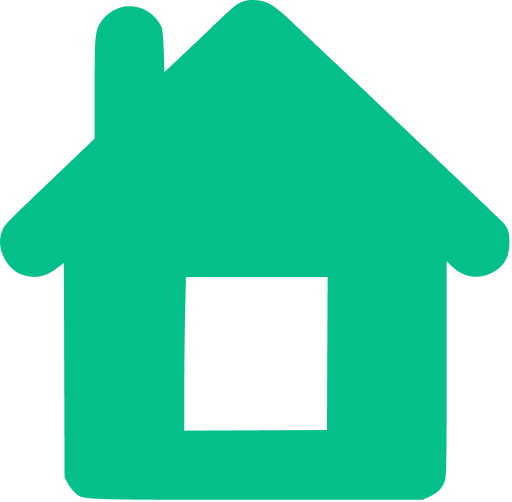
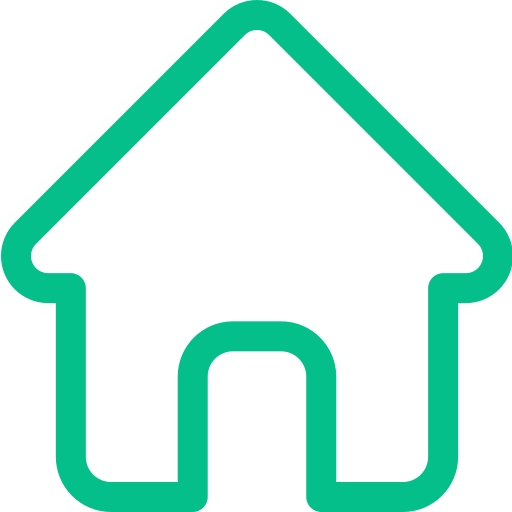
로고변경 및 푸터 변경

diff --git a/src/page/MyPageEdit.jsx b/src/page/MyPageEdit.jsx
@@ -12,25 +12,34 @@ import SelectSports from "../component/interest/SelectSportsClon";
 import SelectArea from "../component/interest/SelectAreaClon";
 import {
   OptionBoardCom,
-  SelectOptionBoardFooterCom,
   SelectOptionBoardCom,
-  SelectOptionBoardHeaderComp,
 } from "../component/interest/SelectAreaClon";
 import SelectMBTI from "../component/MBTI/MBTI";
 
 const Container = styled.div`
+  display: flex;
+  flex-direction: column;
+  align-items: center;
   width: 768px;
   margin: 0px auto;
+  @media only screen and (max-width: 768px) {
+    width: 100%;
+  }
 `;
 const FinalCon = styled.div`
+  display: flex;
+  flex-direction: column;
+  justify-content: center;
+  width: 90%;
   margin-top: 30px;
   border-top-right-radius: 40px;
   border-bottom-right-radius: 40px;
   border-bottom-left-radius: 40px;
-  border: 5px solid #04bf8a;
+  border: 2px solid #cccccc;
 `;
 const FooterCon = styled.div`
-  font-size: 1.2em;
+  margin-bottom: 20px;
+  font-size: 1em;
   color: #353535;
 `;
 const HeaderBox = styled.div`
@@ -41,13 +50,13 @@ const HeaderBox = styled.div`
   margin: 0 auto;
 `;
 const EditBox = styled.div`
+  width: 90%;
+  align-items: center;
   display: flex;
   flex-direction: column;
   margin-bottom: 15%;
 `;
 const FooterBox = styled.div`
-  height: 90px;
-  background-color: white;
   display: flex;
   justify-content: center;
   position: fixed;
@@ -70,10 +79,9 @@ const UserInformation = styled.h2`
   padding: 10px 0;
   display: flex;
   justify-content: center;
-  font-size: 2em;
+  font-size: 1em;
   color: #353535;
 `;
-const SelectedFinal = styled.div``;
 
 const UserImage = styled.img`
   display: flex;
@@ -98,12 +106,10 @@ const EditNick = styled.div`
 `;
 const Input = styled.input`
   background-color: none;
-  width: 100%;
+  width: 90%;
   text-align: center;
-  padding: 20px;
   font-size: 1em;
   border: 1px solid #f7f7f7;
-  transition: height 0.5s ease; // 트랜지션 추가
 `;
 const SubmitButton = styled.button`
   padding: 5px;
@@ -119,6 +125,7 @@ const SubmitButton = styled.button`
     background-color: #04bf8a;
   }
 `;
+
 const EX = styled.div`
   display: flex;
   flex-direction: column;
@@ -144,13 +151,17 @@ const StyledLink = styled(Link)`
   margin: 0 30px;
 `;
 const Text = styled.div`
-  font-size: 2em;
+  font-size: 1.5em;
   margin: 10px;
   color: #04bf8a;
   margin-bottom: 20px;
 `;
+const TextClon = styled.div`
+  font-size: 1.5em;
+  color: #04bf8a;
+  margin-bottom: 20px;
+`;
 const AreaSports = styled.div`
-  font-size: 2em;
   display: flex;
   gap: 50px;
 `;
@@ -283,7 +294,7 @@ const MyPageEdit = () => {
     "자전거",
     "등산",
     "축구",
-    "필라테스",
+    "농구",
     "야구",
     "탁구",
     "테니스",
@@ -393,10 +404,10 @@ const MyPageEdit = () => {
             )}
           </SelectOptionBoardCom>
         </FinalCon>
-        <EX>
-          <FinalCon>
+        <FinalCon>
+          <EX>
             <Text>닉네임</Text>
-            <Text>
+            <TextClon>
               <EditNick>
                 {!editMode ? (
                   <FooterCon>{user.nickname}</FooterCon>
@@ -410,13 +421,13 @@ const MyPageEdit = () => {
                   />
                 )}
               </EditNick>
-            </Text>
-          </FinalCon>
-        </EX>
-        <EX>
-          <FinalCon>
+            </TextClon>
+          </EX>
+        </FinalCon>
+        <FinalCon>
+          <EX>
             <Text>소개</Text>
-            <Text>
+            <TextClon>
               <EditNick>
                 {!editMode ? (
                   <FooterCon>{user.introduce}</FooterCon>
@@ -430,15 +441,15 @@ const MyPageEdit = () => {
                   />
                 )}
               </EditNick>
-            </Text>
-          </FinalCon>
-        </EX>
-        <EX>
-          <FinalCon>
+            </TextClon>
+          </EX>
+        </FinalCon>
+        <FinalCon>
+          <EX>
             <Text>관심 지역</Text>
             <EditNick>
               {!editMode ? (
-                <>
+                <Text>
                   <AreaSports>
                     {area &&
                       area.map((areaItem, index) => (
@@ -447,7 +458,7 @@ const MyPageEdit = () => {
                         </FooterCon>
                       ))}
                   </AreaSports>
-                </>
+                </Text>
               ) : (
                 <SelectArea
                   options={activityAreaList}
@@ -458,14 +469,14 @@ const MyPageEdit = () => {
                 />
               )}
             </EditNick>
-          </FinalCon>
-        </EX>
-        <EX>
-          <FinalCon>
+          </EX>
+        </FinalCon>
+        <FinalCon>
+          <EX>
             <Text>관심 운동</Text>
             <EditNick>
               {!editMode ? (
-                <>
+                <Text>
                   <AreaSports>
                     {interest &&
                       interest.map((interestItem, index) => (
@@ -474,7 +485,7 @@ const MyPageEdit = () => {
                         </FooterCon>
                       ))}
                   </AreaSports>
-                </>
+                </Text>
               ) : (
                 <SelectSports
                   options={activityList}
@@ -485,8 +496,8 @@ const MyPageEdit = () => {
                 />
               )}
             </EditNick>
-          </FinalCon>
-        </EX>
+          </EX>
+        </FinalCon>
         <FinalCon>
           <Text>MBTI</Text>
           <EditNick>

diff --git a/src/page/schedule/Schedule.jsx b/src/page/schedule/Schedule.jsx
@@ -2,12 +2,10 @@ import React, { useState } from "react";
 import styled from "styled-components";
 import moment from "moment";
 import CalendarComp from "../../component/CalendarComp";
-import { useNavigate } from "react-router-dom";
 import JoinPost from "./JoinPost";
 
 const BoardContainer = styled.div`
   display: flex;
-  /* align-items: center; */
   justify-content: center;
   width: 100%;
   flex-direction: column;
@@ -34,36 +32,16 @@ const Date = styled.p`
 `;
 const BoardJoin = styled.div``;
 const DateCon = styled.div`
-  /* width: 768px; */
   display: flex;
   align-items: center;
   justify-content: center;
   gap: 250px;
-`;
-const MyPost = styled.button`
-  top: 155px;
-  align-items: center;
-  justify-content: center;
-  font-size: 1.3em;
-  width: 7em;
-  height: 2em;
-  border-radius: 30px;
-  background-color: var(--GREEN);
-  color: white;
-  border: none;
-  &:hover {
-    color: #353535;
-  }
 `;
 
 const Schedule = () => {
   const [selectedDate, setSelectedDate] = useState(moment());
   const onDateSelect = (date) => {
     setSelectedDate(date);
-  };
-  const navigate = useNavigate();
-  const handleMyPostClick = () => {
-    navigate("/MyPost");
   };
 
   return (
@@ -78,7 +56,6 @@ const Schedule = () => {
             <>
               <DateCon>
                 <Date>{selectedDate.format("YYYY년 MM월 DD일")}</Date>
-                <MyPost onClick={handleMyPostClick}>MY POST ▶</MyPost>
               </DateCon>
             </>
             <BoardJoin>

diff --git a/src/layout/Footer.jsx b/src/layout/Footer.jsx
@@ -9,23 +9,40 @@ import { Link, useNavigate } from "react-router-dom";
 import Common from "../utils/Common";
 
 const Container = styled.div`
-  display: flex;
   width: 768px;
-  background-color: #ffffff78;
-`;
-const FooterIcon = styled.div`
-  width: 100%;
   display: flex;
   justify-content: center;
   align-items: center;
+  margin: 0px auto;
+  @media only screen and (max-width: 768px) {
+    justify-content: space-around;
+  }
+`;
+const FooterIcon = styled.div`
+  padding: 10px 0;
+  width: 650px;
+  background-color: #ffffff;
+  border-top-left-radius: 30px;
+  border-top-right-radius: 30px;
+  border: solid 1px #ccc;
+  border-bottom: none;
+  display: flex;
+  justify-content: center;
+  align-items: center;
+  @media only screen and (max-width: 768px) {
+    width: 500px;
+  }
 `;
 
 const StyledLink = styled.div`
-  margin: 0 30px;
+  margin: 0 2em;
+  @media only screen and (max-width: 768px) {
+    margin: 0 0.9em;
+  }
 `;
 
 const Icon = styled.img`
-  height: 60px;
+  max-width: 3.5em;
 `;
 
 const Footer = () => {

diff --git a/src/page/schedule/MyPost.jsx b/src/page/schedule/MyPost.jsx
@@ -10,13 +10,18 @@ const Container = styled.div`
   max-width: 768px;
   min-width: 300px;
   margin: 0 auto;
+  margin-bottom: 8%;
   justify-content: center;
   align-items: center;
   color: var(--GREEN);
+  @media only screen and (max-width: 768px) {
+    width: 100%;
+  }
 `;
+
 const Mine = styled.div`
-  font-size: 3em;
-  color: #353535;
+  font-size: 2.5em;
+  color: #333;
   text-align: center;
   margin: 20px 0;
 `;
@@ -54,7 +59,7 @@ const MyPost = ({ postId, selectedDate }) => {
   return (
     <>
       <Container>
-        <Mine>MY POST</Mine>
+        <Mine>내가 작성한 글</Mine>
         {postList &&
           postList.map((post) => (
             // PostPreview 컴포넌트를 호출하면서 필요한 데이터를 전달

diff --git a/src/layout/Layout.jsx b/src/layout/Layout.jsx
@@ -7,9 +7,13 @@ import styled from "styled-components";
 import Header from "./Header";
 
 const Container = styled.div`
-  padding: 0 20px;
   display: flex;
   justify-content: center;
+  /* width: 768px; */
+  /* margin: 0px auto;
+  @media only screen and (max-width: 768px) {
+    width: 100%;
+  } */
 `;
 const FooterContainer = styled.div`
   display: flex;
